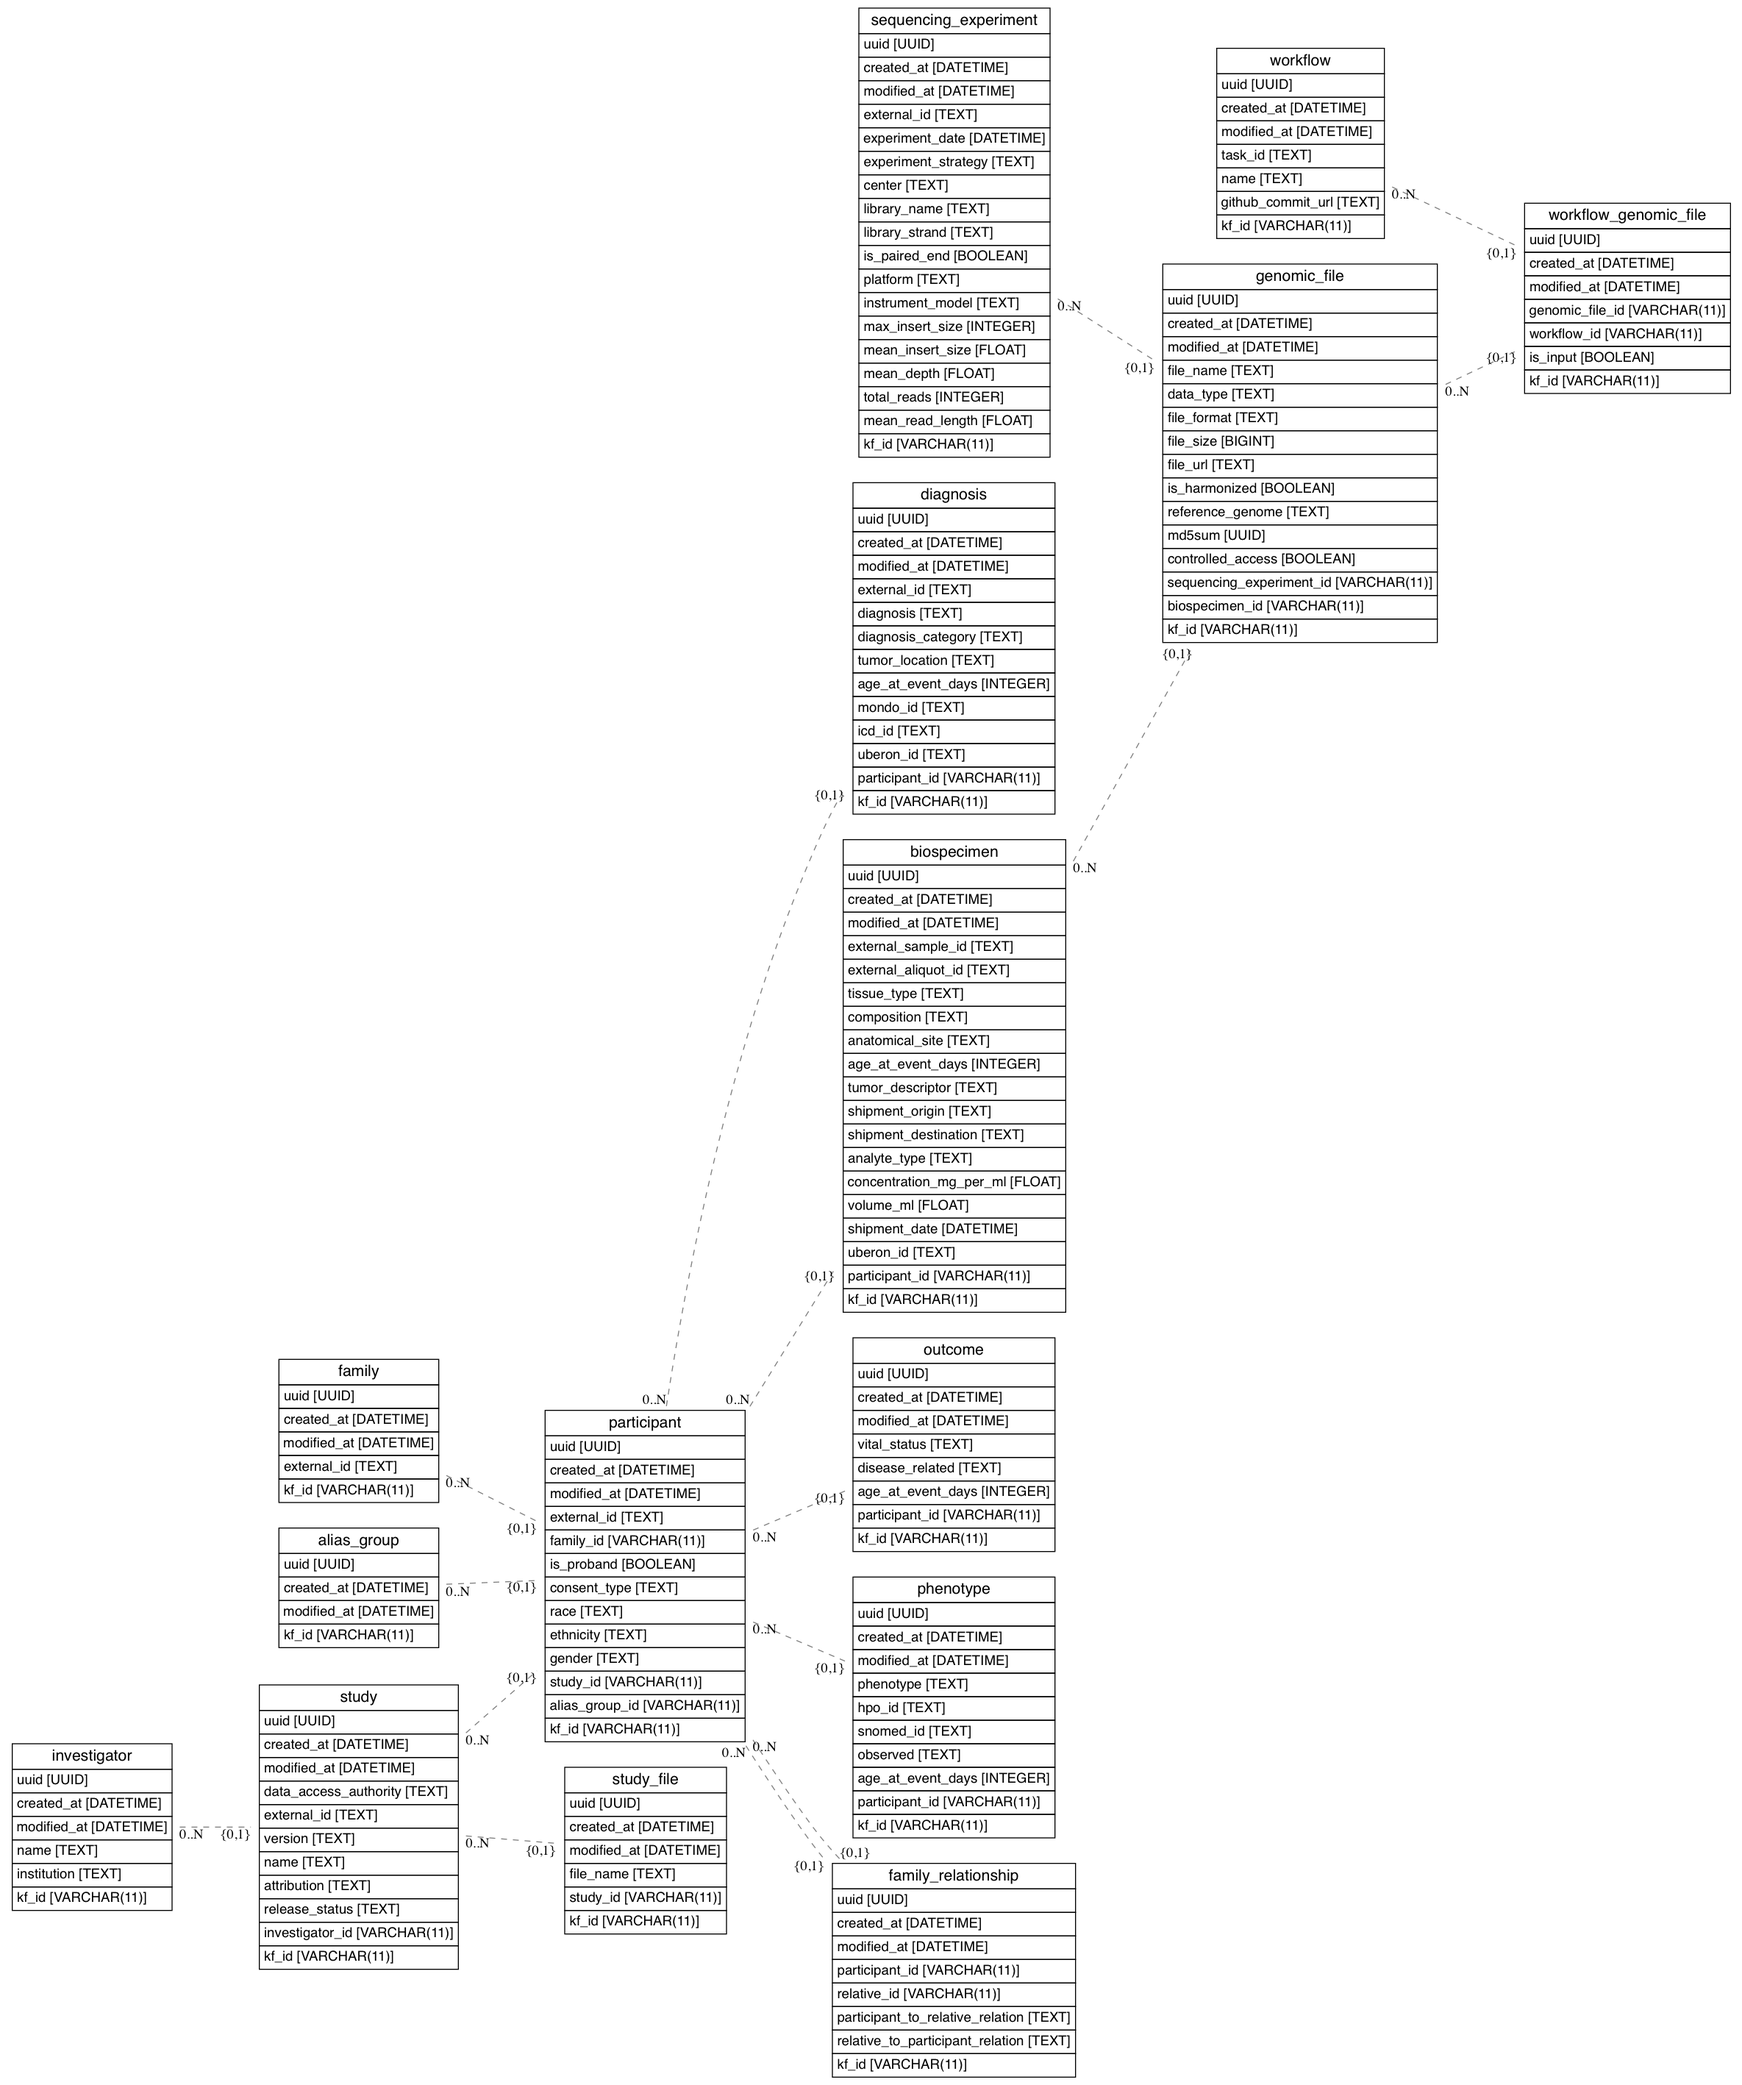
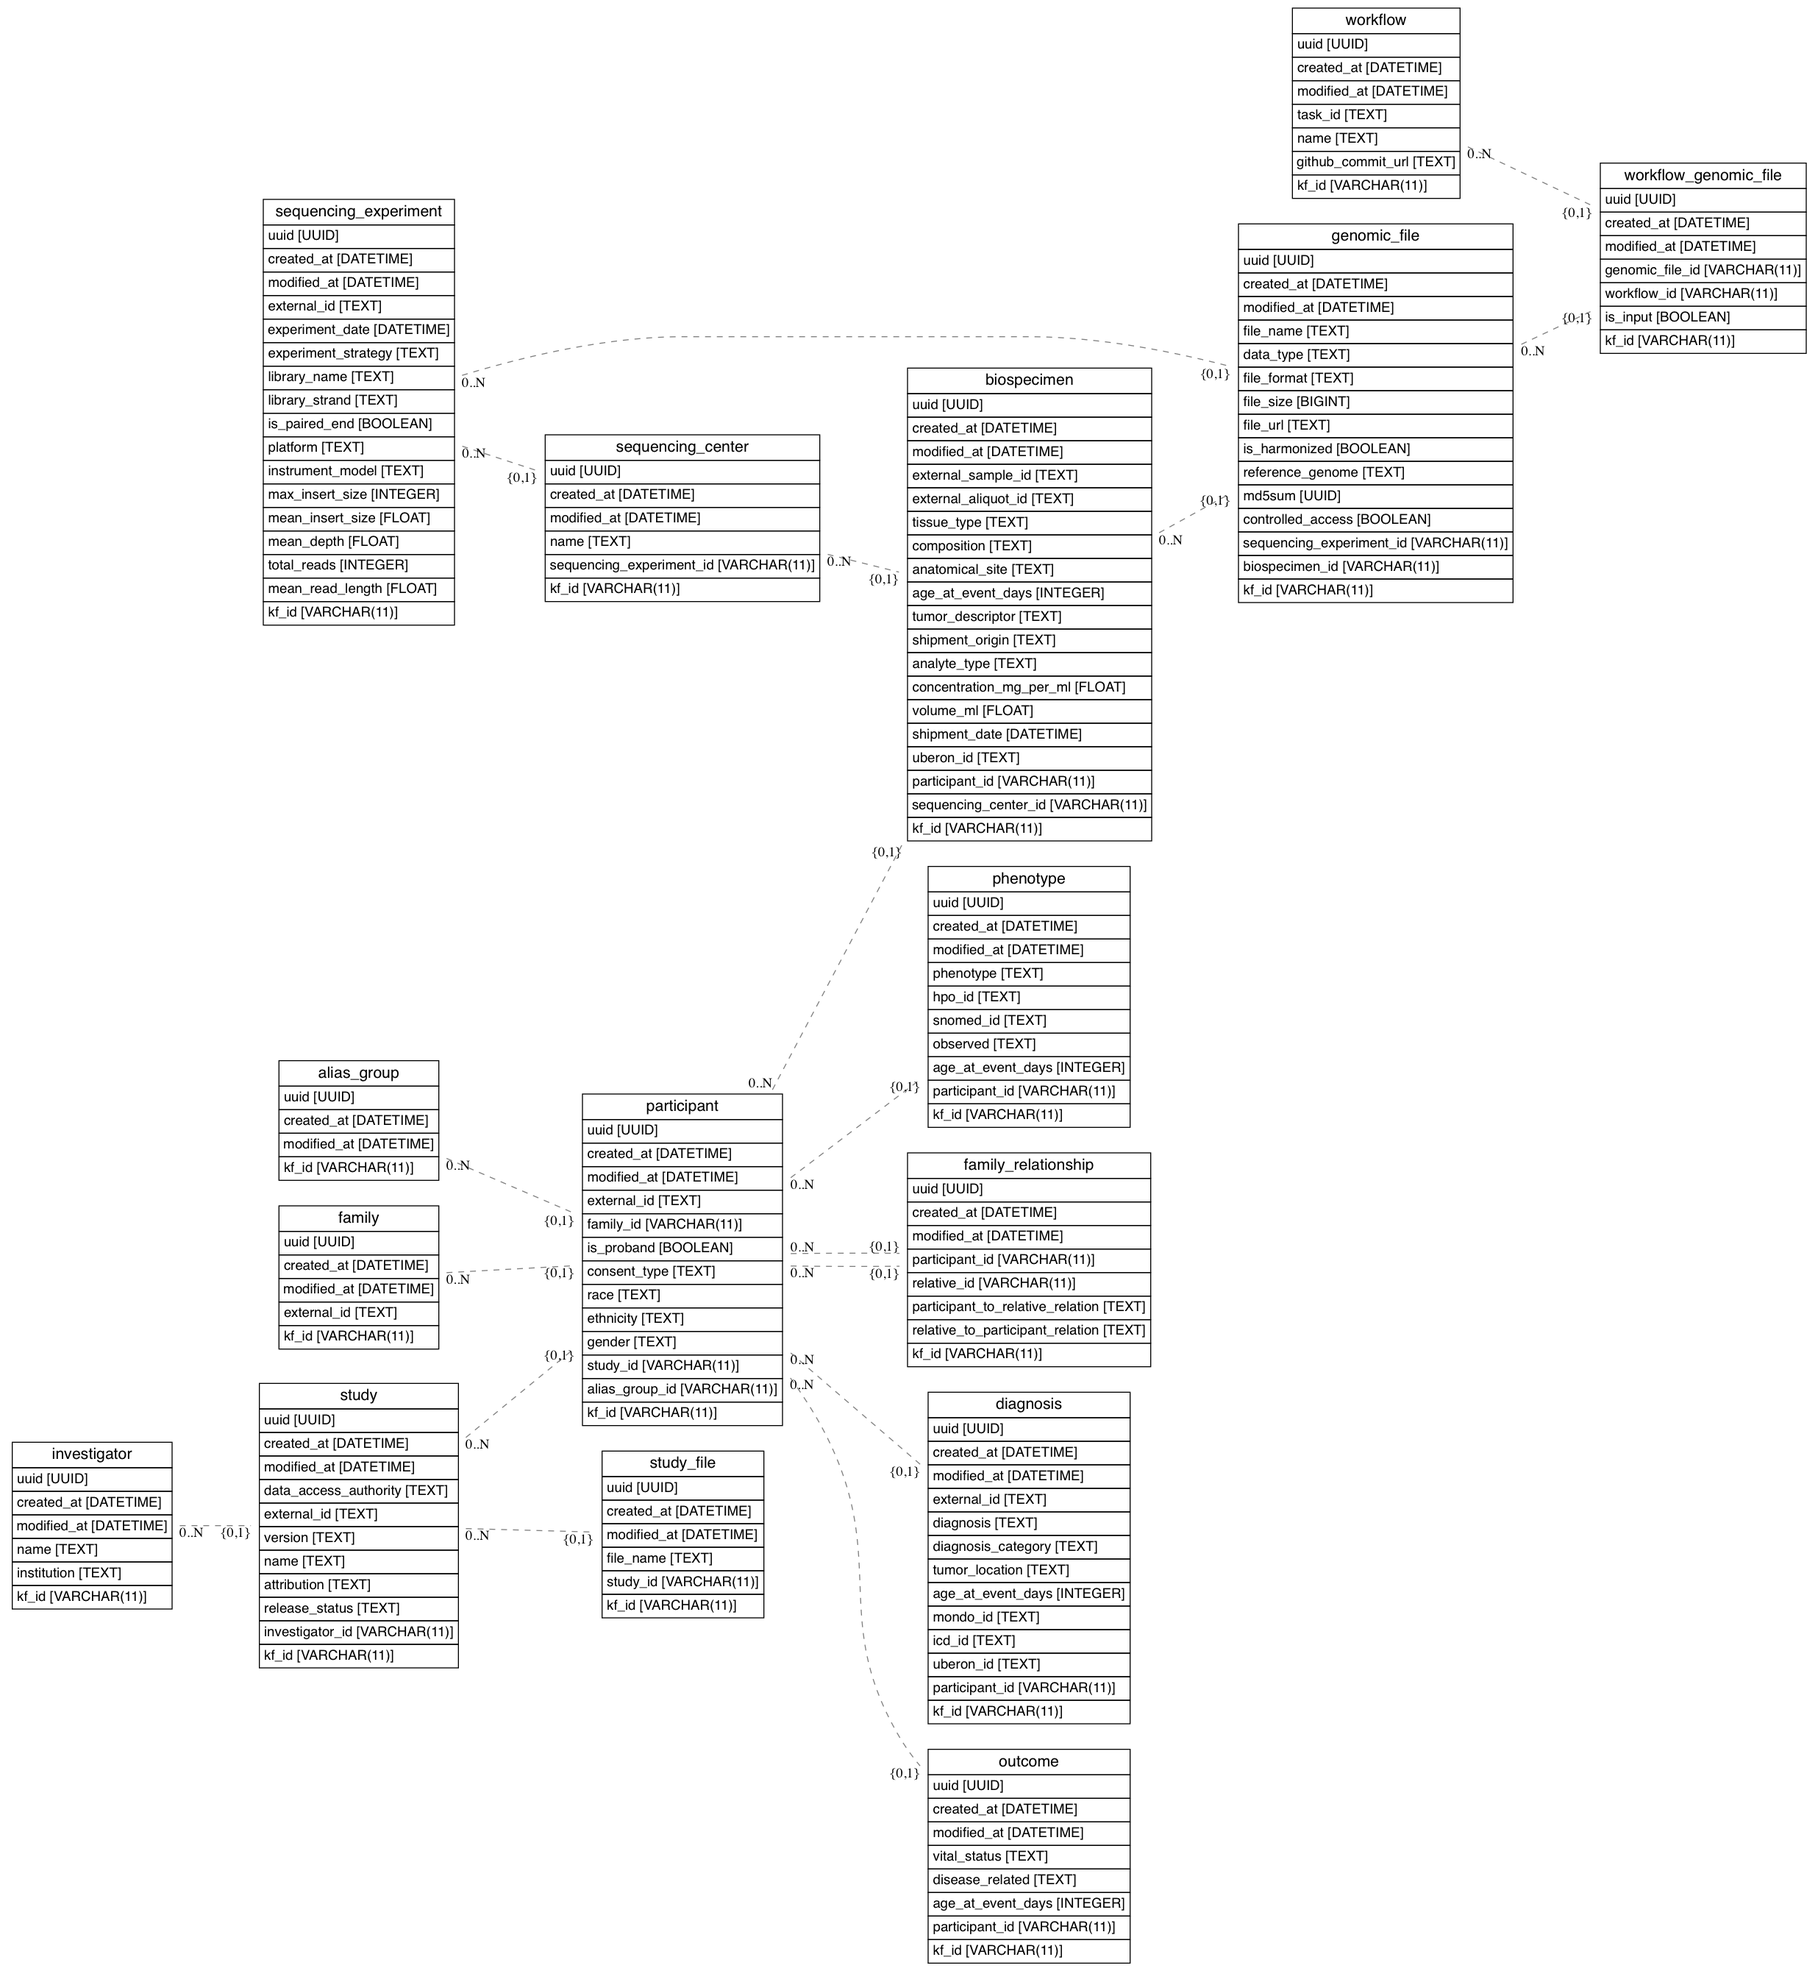
:card_file_box: Update erd and migrations for adding sequencing_center

diff --git a/migrations/versions/81e6f30b0da5_.py b/migrations/versions/81e6f30b0da5_.py
@@ -1,0 +1,48 @@
+"""
+Add sequencing_center entity to model
+Remove center from sequencing_experiment and shipment_destination from biospecimen
+
+Revision ID: 81e6f30b0da5
+Revises: e3ee14b87b2e
+Create Date: 2018-04-16 11:00:09.846946
+
+"""
+from alembic import op
+import sqlalchemy as sa
+from sqlalchemy.dialects import postgresql
+
+# revision identifiers, used by Alembic.
+revision = '81e6f30b0da5'
+down_revision = 'e3ee14b87b2e'
+branch_labels = None
+depends_on = None
+
+
+def upgrade():
+    # ### commands auto generated by Alembic - please adjust! ###
+    op.create_table('sequencing_center',
+    sa.Column('uuid', postgresql.UUID(), nullable=True),
+    sa.Column('created_at', sa.DateTime(), nullable=True),
+    sa.Column('modified_at', sa.DateTime(), nullable=True),
+    sa.Column('name', sa.Text(), nullable=False),
+    sa.Column('sequencing_experiment_id', dataservice.api.common.model.KfId(length=11), nullable=False),
+    sa.Column('kf_id', dataservice.api.common.model.KfId(length=11), nullable=False),
+    sa.ForeignKeyConstraint(['sequencing_experiment_id'], ['sequencing_experiment.kf_id'], ),
+    sa.PrimaryKeyConstraint('kf_id'),
+    sa.UniqueConstraint('uuid')
+    )
+    op.add_column('biospecimen', sa.Column('sequencing_center_id', dataservice.api.common.model.KfId(length=11), nullable=False))
+    op.create_foreign_key(None, 'biospecimen', 'sequencing_center', ['sequencing_center_id'], ['kf_id'])
+    op.drop_column('biospecimen', 'shipment_destination')
+    op.drop_column('sequencing_experiment', 'center')
+    # ### end Alembic commands ###
+
+
+def downgrade():
+    # ### commands auto generated by Alembic - please adjust! ###
+    op.add_column('sequencing_experiment', sa.Column('center', sa.TEXT(), autoincrement=False, nullable=False))
+    op.add_column('biospecimen', sa.Column('shipment_destination', sa.TEXT(), autoincrement=False, nullable=True))
+    op.drop_constraint(None, 'biospecimen', type_='foreignkey')
+    op.drop_column('biospecimen', 'sequencing_center_id')
+    op.drop_table('sequencing_center')
+    # ### end Alembic commands ###
